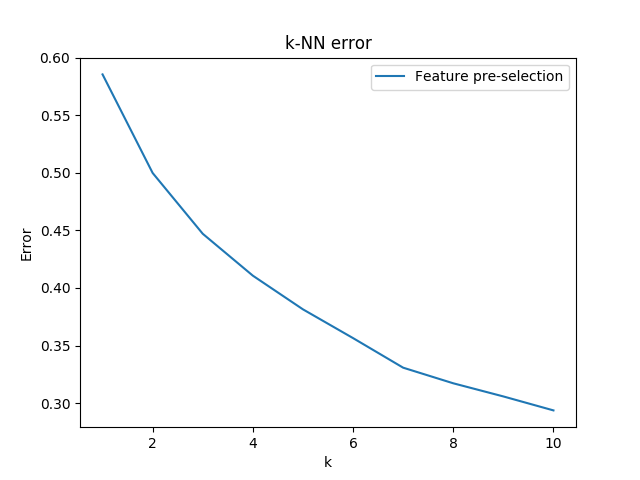
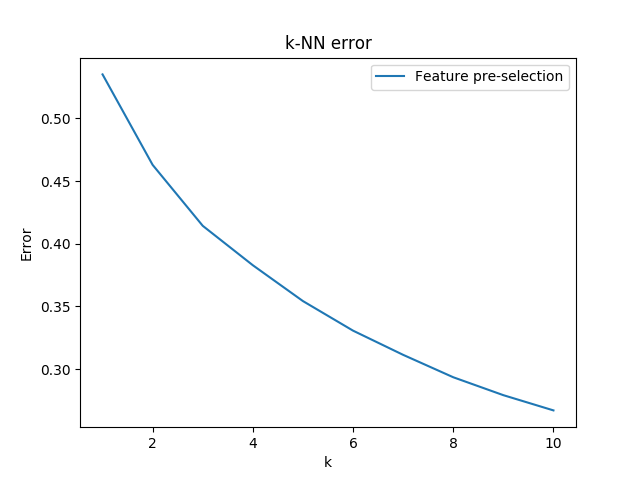
[CW2] Adding seuclidina

diff --git a/Coursework 2/kNN_improved_feature_preselection.py b/Coursework 2/kNN_improved_feature_preselection.py
@@ -17,7 +17,7 @@ from tqdm import tqdm
 
 from collections import Counter
 
-def weight(x, sigma=0.1):
+def weight(x, sigma=0.01):
     return np.exp(-(x** 2) / 2*(sigma**2))
 
 def vote(x, weights):
@@ -75,16 +75,16 @@ def analyse_KNN_feature_preselection(k=10):
     labels= [None]*k
     tops = [0]*k
 
-    selector = VarianceThreshold(threshold=(.8 * (1 - .8)))
-    training_features = selector.fit_transform(training_features, training_labels)
-    gallery_features = selector.transform(gallery_features)
-    query_features = selector.transform(query_features)
+#    selector = VarianceThreshold(threshold=(.8 * (1 - .8)))
+#    training_features = selector.fit_transform(training_features, training_labels)
+#    gallery_features = selector.transform(gallery_features)
+#    query_features = selector.transform(query_features)
 
-    lda_W = LDA(training_features.T, training_labels)
+#    lda_W = LDA(training_features.T, training_labels)
 
-    training_features = LDA_transform(lda_W,training_features.T)
-    gallery_features = LDA_transform(lda_W,gallery_features.T)
-    query_features = LDA_transform(lda_W,query_features.T)
+#    training_features = LDA_transform(lda_W,training_features.T)
+#    gallery_features = LDA_transform(lda_W,gallery_features.T)
+#    query_features = LDA_transform(lda_W,query_features.T)
 
 
     for i in tqdm(range(len(query_features))):
@@ -95,9 +95,7 @@ def analyse_KNN_feature_preselection(k=10):
         selected_gallery_features, selected_gallery_labels = select_features(gallery_camIds, query_camId, gallery_labels, query_label, gallery_features)
 
 
-        clf = neighbors.KNeighborsClassifier(k,algorithm='brute',
-                               metric='mahalanobis',
-                               metric_params={'V': np.cov(selected_gallery_features.T)})
+        clf = neighbors.KNeighborsClassifier(k,algorithm='brute',metric='seuclidean')
 
         clf.fit(selected_gallery_features, selected_gallery_labels)
         distances, predicted_neighbors = clf.kneighbors(query.reshape(1, -1), return_distance=True)
